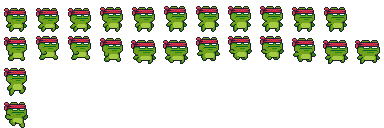
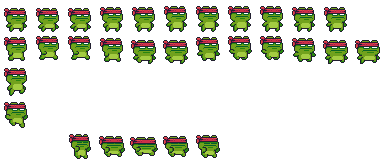
mudanca de background e animacao de player tomando dano

diff --git a/A3/Game/src/player.c b/A3/Game/src/player.c
@@ -31,7 +31,7 @@ Player* player_create(float start_x, float start_y) {
     p->move_left = false;
     p->move_right = false;
     p->jump_pressed = false;
-    p->crouch_pressed = false; // Novo input
+    p->crouch_pressed = false;
     p->level_complete = false;
 
     p->spritesheet = al_load_bitmap("assets/ninja_sheet.png");
@@ -84,55 +84,55 @@ void player_handle_event(Player* p, ALLEGRO_EVENT* event) {
 void player_update(Player *p, World *world) {
     if (p->invulnerable_timer > 0) p->invulnerable_timer -= 1.0 / FPS;
 
-    // --- 1. MUDANÇA DE ESTADO (AGACHAR) ---
-    // Só pode agachar se estiver no chão
-    if (p->on_ground && p->crouch_pressed) {
-        if (p->state != CROUCHING) {
-            p->state = CROUCHING;
-            // Ajusta a posição Y para o personagem não "flutuar" quando diminuir a altura
-            p->y = p->y + (HEIGHT_STANDING - HEIGHT_CROUCHING);
-            p->height = HEIGHT_CROUCHING;
-        }
-    } 
+    // --- 1. MÁQUINA DE ESTADOS E INPUTS (ALTERADO) ---
+    // Se estiver em HIT (Dano), bloqueia inputs de movimento
+    if (p->state == HIT) {
+        // Não faz nada, apenas espera. O código de física/colisão abaixo vai empurrá-lo.
+    }
     else {
-        // Se soltou o botão, tenta levantar
-        if (p->state == CROUCHING) {
-            // VERIFICAÇÃO DE TETO: Só levanta se não tiver bloco em cima!
-            // Checa colisão simulando a altura normal
-            bool hit_head = world_is_solid(world, p->x, p->y - (HEIGHT_STANDING - HEIGHT_CROUCHING)) ||
-                            world_is_solid(world, p->x + p->width, p->y - (HEIGHT_STANDING - HEIGHT_CROUCHING));
-            
-            if (!hit_head) {
-                p->state = IDLE;
-                p->y = p->y - (HEIGHT_STANDING - HEIGHT_CROUCHING);
-                p->height = HEIGHT_STANDING;
+        // --- AQUI DENTRO VEM TODA A LÓGICA DE CONTROLE QUE JÁ EXISTIA ---
+        
+        // MUDANÇA DE ESTADO (AGACHAR)
+        if (p->on_ground && p->crouch_pressed) {
+            if (p->state != CROUCHING) {
+                p->state = CROUCHING;
+                p->y = p->y + (HEIGHT_STANDING - HEIGHT_CROUCHING);
+                p->height = HEIGHT_CROUCHING;
             }
-            // Se hit_head for true, ele continua agachado forçadamente
+        } 
+        else {
+            if (p->state == CROUCHING) {
+                bool hit_head = world_is_solid(world, p->x, p->y - (HEIGHT_STANDING - HEIGHT_CROUCHING)) ||
+                                world_is_solid(world, p->x + p->width, p->y - (HEIGHT_STANDING - HEIGHT_CROUCHING));
+                if (!hit_head) {
+                    p->state = IDLE;
+                    p->y = p->y - (HEIGHT_STANDING - HEIGHT_CROUCHING);
+                    p->height = HEIGHT_STANDING;
+                }
+            }
         }
-    }
 
-    // --- 2. MOVIMENTO HORIZONTAL ---
-    p->vel_x = 0;
-    
-    // Se estiver agachado, NÃO SE MOVE
-    if (p->state != CROUCHING) {
-        if (p->move_left)  p->vel_x -= PLAYER_SPEED;
-        if (p->move_right) p->vel_x += PLAYER_SPEED;
-    }
+        // MOVIMENTO HORIZONTAL
+        p->vel_x = 0;
+        if (p->state != CROUCHING) {
+            if (p->move_left)  p->vel_x -= PLAYER_SPEED;
+            if (p->move_right) p->vel_x += PLAYER_SPEED;
+        }
 
-    if (p->vel_x > 0) p->facing_direction = 1;
-    else if (p->vel_x < 0) p->facing_direction = -1;
+        if (p->vel_x > 0) p->facing_direction = 1;
+        else if (p->vel_x < 0) p->facing_direction = -1;
 
-    // --- 3. PULO ---
-    // Não pula se estiver agachado
-    if (p->jump_pressed && p->on_ground && p->state != CROUCHING) {
-        p->vel_y = -JUMP_POWER;
-        p->state = JUMPING;
-        p->on_ground = false;
-        p->anim_row = 2; p->num_frames = 1; p->current_frame = 0;
-    }
+        // PULO
+        if (p->jump_pressed && p->on_ground && p->state != CROUCHING) {
+            p->vel_y = -JUMP_POWER;
+            p->state = JUMPING;
+            p->on_ground = false;
+            p->anim_row = 2; p->num_frames = 1; p->current_frame = 0;
+        }
+    } // Fim do else (Controles Normais)
 
-    // --- 4. FÍSICA E COLISÃO (Copiado e mantido do seu código original) ---
+
+    // --- 4. FÍSICA E COLISÃO (IGUAL) ---
     p->vel_y += GRAVITY;
     if (p->vel_y > 15) p->vel_y = 15;
 
@@ -155,7 +155,7 @@ void player_update(Player *p, World *world) {
 
     // Colisão Y
     p->y += p->vel_y;
-    p->on_ground = false; // Reset
+    p->on_ground = false; 
 
     if (p->vel_y > 0) { 
         if (world_is_solid(world, p->x + 1, p->y + p->height) ||
@@ -163,8 +163,9 @@ void player_update(Player *p, World *world) {
             p->y = (int)(p->y + p->height) / TILE_SIZE * TILE_SIZE - p->height;
             p->vel_y = 0;
             p->on_ground = true;
-            if (p->state == JUMPING)
-                p->state = IDLE;
+            
+            // ALTERAÇÃO: Reset de pulo (mas não reseta se for HIT)
+            if (p->state == JUMPING) p->state = IDLE;
         }
     }
     else if (p->vel_y < 0) { 
@@ -175,18 +176,16 @@ void player_update(Player *p, World *world) {
         }
     }
 
-    // --- 5. ANIMAÇÃO ---
-    if (p->state == CROUCHING) {
-        // Usa a animação de IDLE (Linha 0), mas vamos achatar no DRAW
-        p->anim_row = 0; 
-        p->num_frames = 11; 
-        // Se quiser que ele fique "congelado" em um frame agachado:
-        // p->current_frame = 0; 
-        // Ou deixa animar respirando (fica legal respirando achatado)
+    // --- 5. ANIMAÇÃO (ALTERADO) ---
+    if (p->state == HIT) {
+        // Mantém a linha 4. Não faz nada aqui, a animação roda sozinha.
+    }
+    else if (p->state == CROUCHING) {
+        p->anim_row = 0; p->num_frames = 11; 
     }
     else if (p->state == JUMPING || !p->on_ground) {
-        if (p->vel_y > 0) p->anim_row = 3; // Fall
-        else p->anim_row = 2; // Jump
+        if (p->vel_y > 0) p->anim_row = 3; 
+        else p->anim_row = 2; 
         p->num_frames = 1;
     }
     else if (p->vel_x != 0) {
@@ -198,11 +197,20 @@ void player_update(Player *p, World *world) {
         p->anim_row = 0; p->num_frames = 11; p->frame_delay = 0.05;
     }
 
-    // Avanço de frames
+    // Avanço de frames (ALTERADO para resetar o HIT)
     p->frame_timer += 1.0 / FPS; 
     if (p->frame_timer >= p->frame_delay) {
         p->current_frame++;
-        if (p->current_frame >= p->num_frames) p->current_frame = 0;
+        
+        // Verifica se a animação acabou
+        if (p->current_frame >= p->num_frames) {
+            p->current_frame = 0;
+            
+            // SE A ANIMAÇÃO DE HIT ACABOU, VOLTA AO NORMAL
+            if (p->state == HIT) {
+                p->state = IDLE;
+            }
+        }
         p->frame_timer = 0;
     }
 
@@ -216,13 +224,33 @@ void player_update(Player *p, World *world) {
 // ... player_take_damage e player_respawn continuam iguais ...
 
 bool player_take_damage(Player *p) {
+    // Se já estiver invulnerável, ignora o dano (retorna false)
     if (p->invulnerable_timer > 0) return false;
+
     p->hp--; 
+    
+    // SE MORREU (HP zerou):
+    // Retorna true para que o main.c saiba que deve chamar o player_respawn
     if (p->hp <= 0) return true;
+
+    // SE SOBREVIVEU:
+    // Configura o estado HIT e a animação
+    p->state = HIT;
     p->invulnerable_timer = 2.0; 
-    p->vel_y = -5; 
-    p->vel_x = -5 * p->facing_direction; 
-    return true; 
+    
+    // Configura para a linha 4 (Animação de Hit)
+    p->anim_row = 4;
+    p->num_frames = 5; 
+    p->current_frame = 0;
+    p->frame_delay = 0.1; 
+
+    // Empurrão (Knockback)
+    p->vel_y = -4; 
+    p->vel_x = -4 * p->facing_direction; 
+    
+    // IMPORTANTE: Retorna false!
+    // Isso diz ao jogo: "Não reinicie a fase, apenas continue com o jogador machucado".
+    return false; 
 }
 
 void player_respawn(Player *p) {
@@ -241,7 +269,6 @@ void player_reset(Player *p) {
     p->invulnerable_timer = 0;
 }
 
-// --- DRAW MODIFICADO PARA ACHATAR ---
 void player_draw(Player *p, World *world) {
     float sw = 32; 
     float sh = 32; 
@@ -249,47 +276,45 @@ void player_draw(Player *p, World *world) {
     float sx = p->current_frame * sw; 
     float sy = p->anim_row * sh; 
 
-    // --- EFEITO DE ACHATAMENTO (Squash) ---
     float draw_scale_y = 1.0;
-    
-    // Se estiver agachado, desenhamos com 60% da altura original
     if (p->state == CROUCHING) {
         draw_scale_y = 0.6; 
     }
 
-    // Largura e Altura final do desenho
     float dest_w = sw;
     float dest_h = sh * draw_scale_y; 
 
-    // Cálculo do Offset:
-    // O sprite tem 32px. A hitbox tem 24px (pé) ou 14px (agachado).
-    // Queremos alinhar pela BASE da hitbox.
-    
-    // Alinha horizontalmente (centraliza na hitbox de 18px)
     float offset_x = (sw - p->width) / 2.0;
-    
-    // Alinha verticalmente pela BASE
-    // A posição Y de desenho deve ser: (Y_Jogador + Altura_Hitbox) - Altura_Desenho
     float dy = (p->y + p->height) - dest_h - world->camera_y;
     float dx = (p->x - world->camera_x) - offset_x;
 
     int flags = 0;
     if (p->facing_direction == -1) flags = ALLEGRO_FLIP_HORIZONTAL;
 
-    // Usamos draw_scaled_bitmap para poder aplicar o achatamento
-    al_draw_scaled_bitmap(
-        p->spritesheet, 
-        sx, sy,         // Origem na imagem
-        sw, sh,         // Tamanho original
-        dx, dy,         // Destino na tela
-        dest_w, dest_h, // Tamanho final (achatado se crouch)
-        flags           
-    );
+    // --- ALTERAÇÃO: Efeito de Piscar ---
+    bool draw = true;
+    if (p->invulnerable_timer > 0) {
+        // Pisca rapidamente
+        int blink = (int)(p->invulnerable_timer * 10);
+        if (blink % 2 == 0) draw = false;
+    }
 
-    // Debug Hitbox
-    al_draw_rectangle(
+    if (draw) {
+        al_draw_scaled_bitmap(
+            p->spritesheet, 
+            sx, sy,         
+            sw, sh,         
+            dx, dy,         
+            dest_w, dest_h, 
+            flags           
+        );
+    }
+    // ------------------------------------
+
+    // Debug Hitbox (Pode descomentar se quiser ver)
+    /*al_draw_rectangle(
         p->x - world->camera_x, p->y - world->camera_y, 
         p->x + p->width - world->camera_x, p->y + p->height - world->camera_y, 
         al_map_rgb(0, 255, 0), 1
-    );
+    );*/
 }

diff --git a/A3/Game/src/main.c b/A3/Game/src/main.c
@@ -95,7 +95,7 @@ int main()
     Enemy *rhino = enemy_create(ENEMY_RHINO, 400, 400);
     Enemy *bird = enemy_create(ENEMY_BLUEBIRD, 992, 208);
     Enemy *mushroom = enemy_create(ENEMY_MUSHROOM, 208, 240);
-    Obstacle *trophy = obstacle_create(GOAL_TROPHY, 768,352);
+    Obstacle *trophy = obstacle_create(GOAL_TROPHY, 758,346);
     
     // Começa descendo
     rock_head_1->vel_y = 10.0;

diff --git a/A3/Game/src/obstacle.c b/A3/Game/src/obstacle.c
@@ -332,11 +332,11 @@ void obstacle_draw(Obstacle *obs, World *world) {
     }
     
     // Debug Hitbox
-    al_draw_rectangle(
+    /*al_draw_rectangle(
         obs->x - world->camera_x, 
         obs->y - world->camera_y, 
         obs->x + obs->width - world->camera_x, 
         obs->y + obs->height - world->camera_y, 
         al_map_rgb(255, 0, 0), 1
-    );
+    );*/
 }

diff --git a/A3/Game/src/menu.c b/A3/Game/src/menu.c
@@ -4,7 +4,7 @@
 #include <stdlib.h>
 
 // Definições do menu
-#define MENU_FONT_SIZE 32
+#define MENU_FONT_SIZE 64
 #define FONT_PATH "assets/Fonte.ttf"
 
 // --- Criar Menu ---

diff --git a/A3/Game/src/player.h b/A3/Game/src/player.h
@@ -12,7 +12,8 @@ typedef enum {
     JUMPING,
     CROUCHING,
     INTERACTING,
-    WIN
+    WIN,
+    HIT
 } PlayerState;
 
 typedef struct Player{
